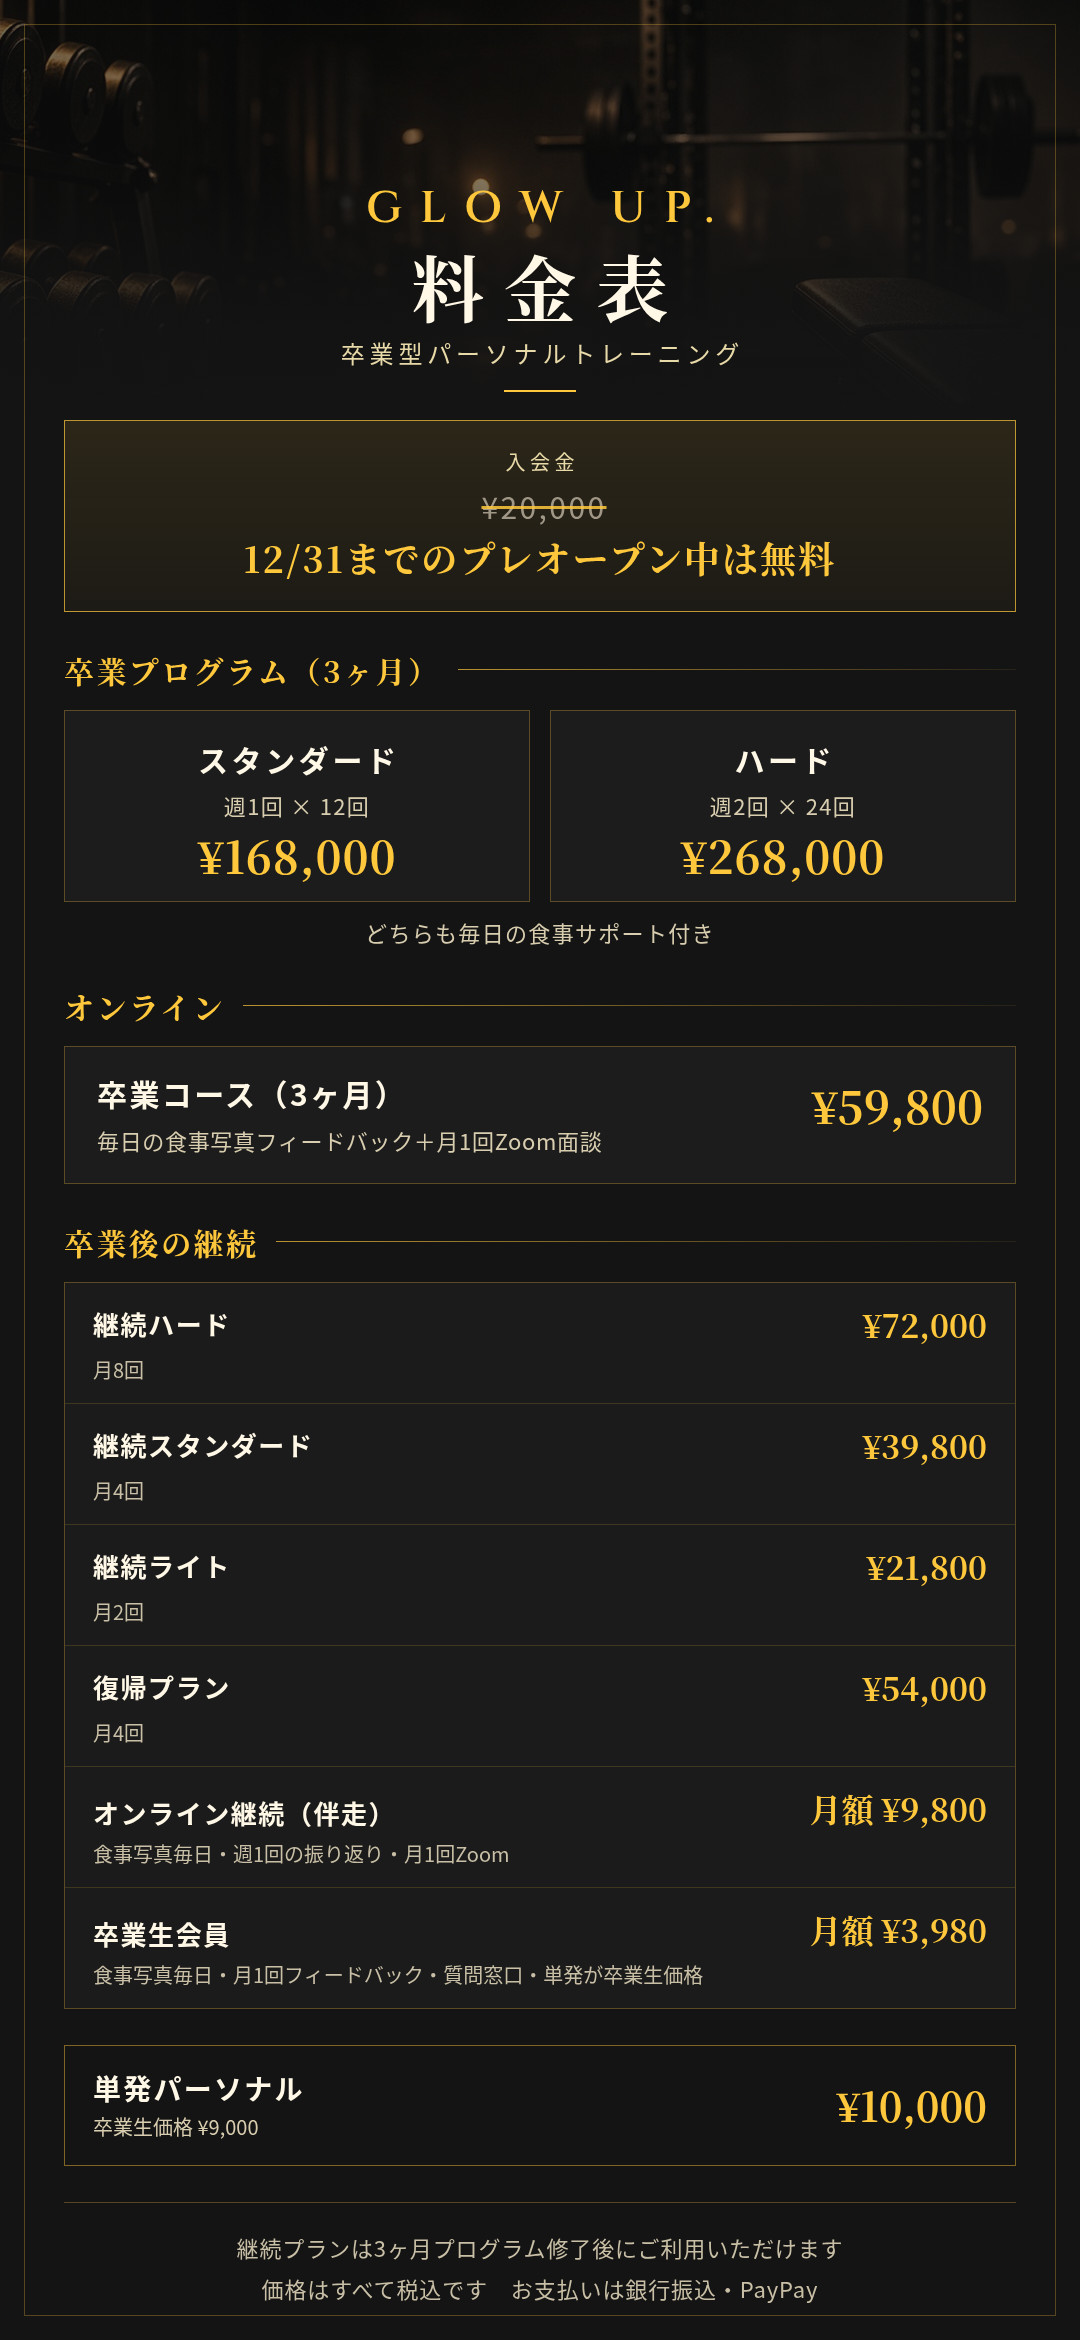
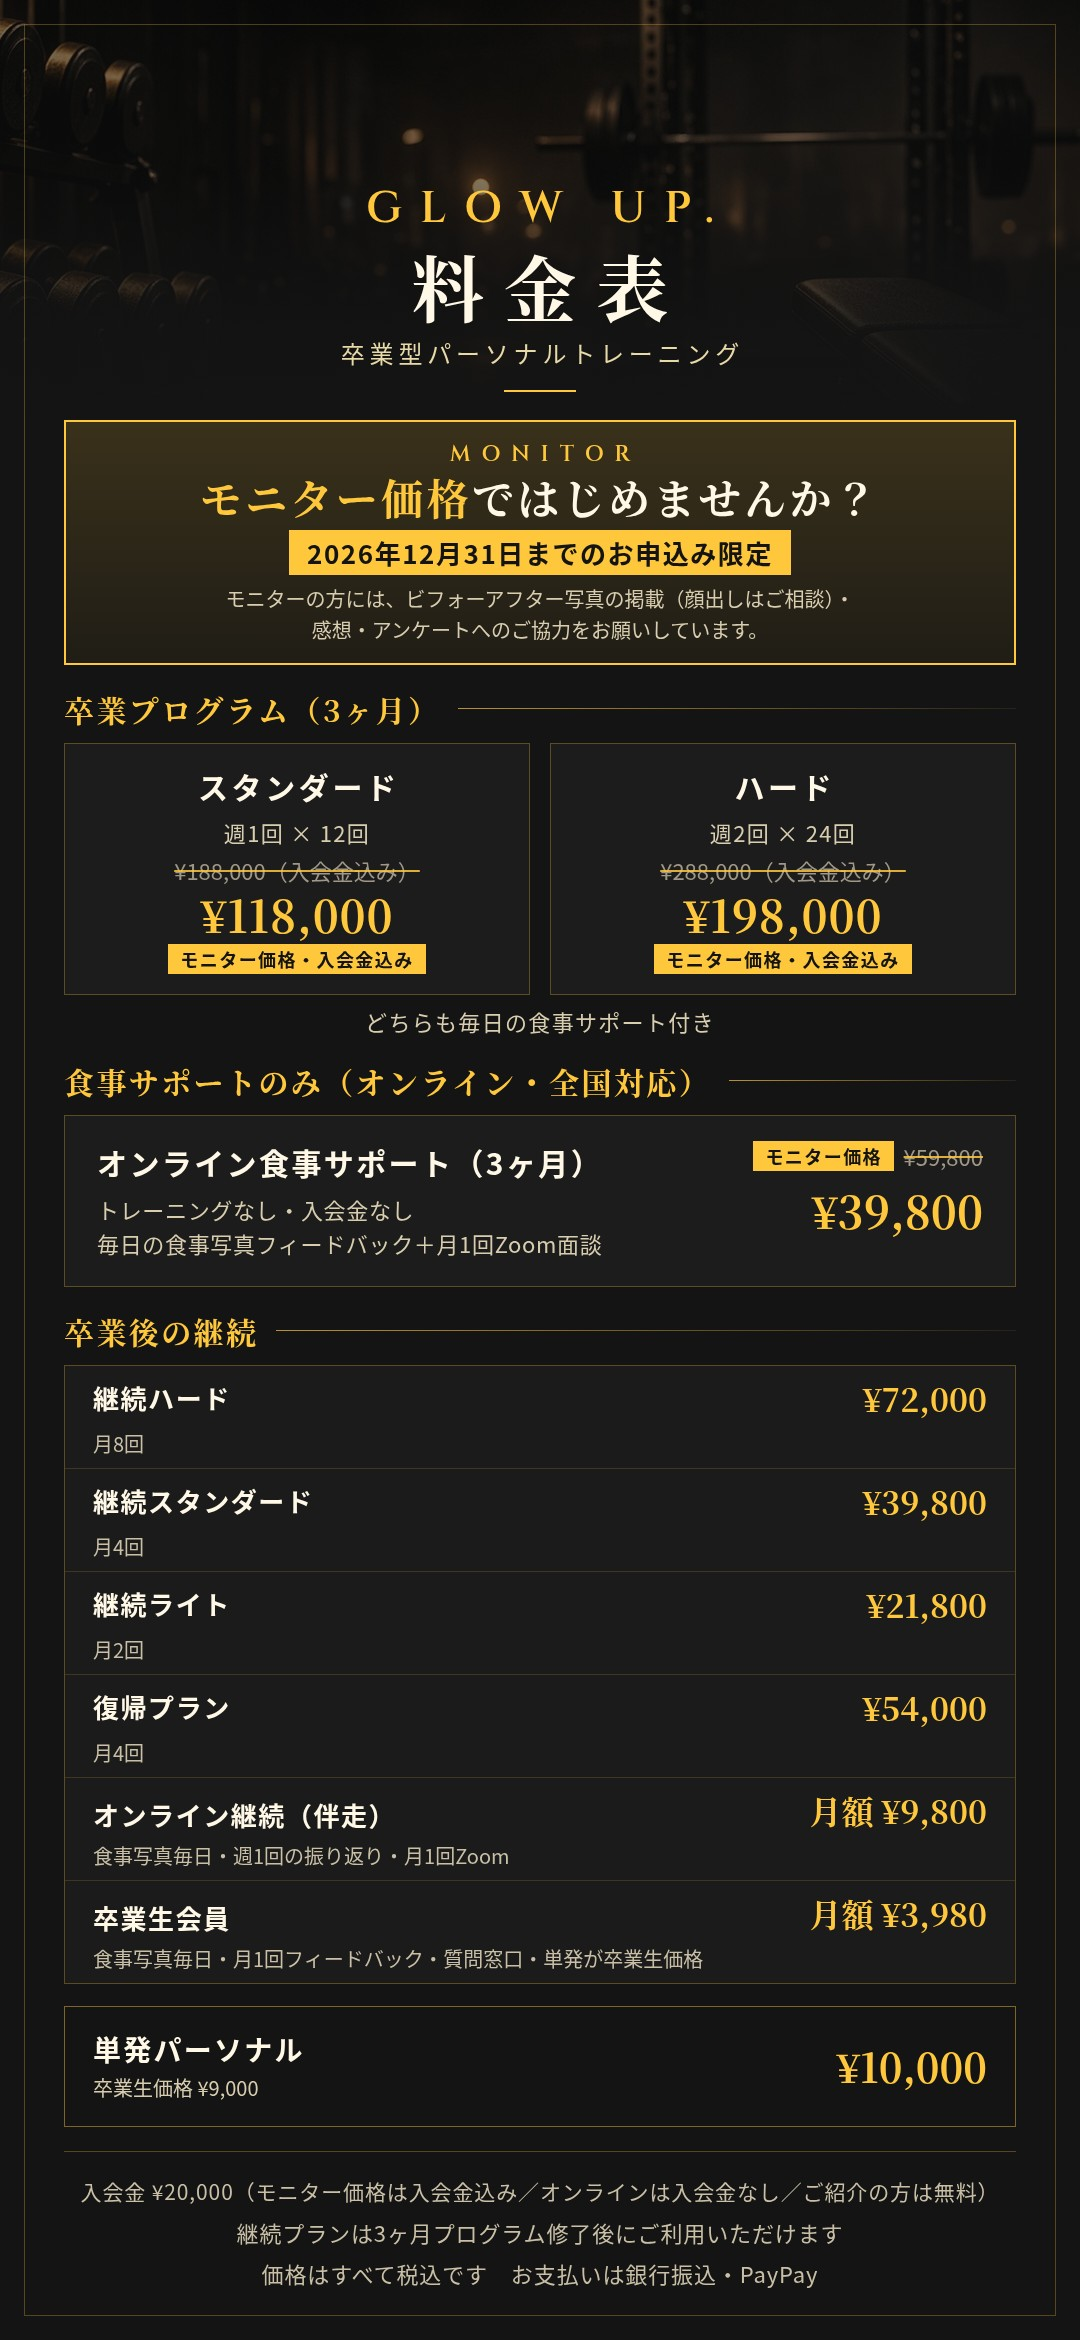
Price list: monitor prices until 12/31, rename to オンライン食事サポート

diff --git a/price.html b/price.html
@@ -2,4 +2,4 @@
 <html lang="ja"><head><meta charset="utf-8"><meta name="viewport" content="width=device-width,initial-scale=1">
 <title>GLOW UP. 料金表</title>
 <style>html,body{margin:0;background:#141414}img{display:block;width:100%;max-width:720px;margin:0 auto;height:auto}</style>
-</head><body><img src="price.jpg" alt="GLOW UP. 料金表"></body></html>
+</head><body><img src="price.jpg?v=20261115m" alt="GLOW UP. 料金表"></body></html>
